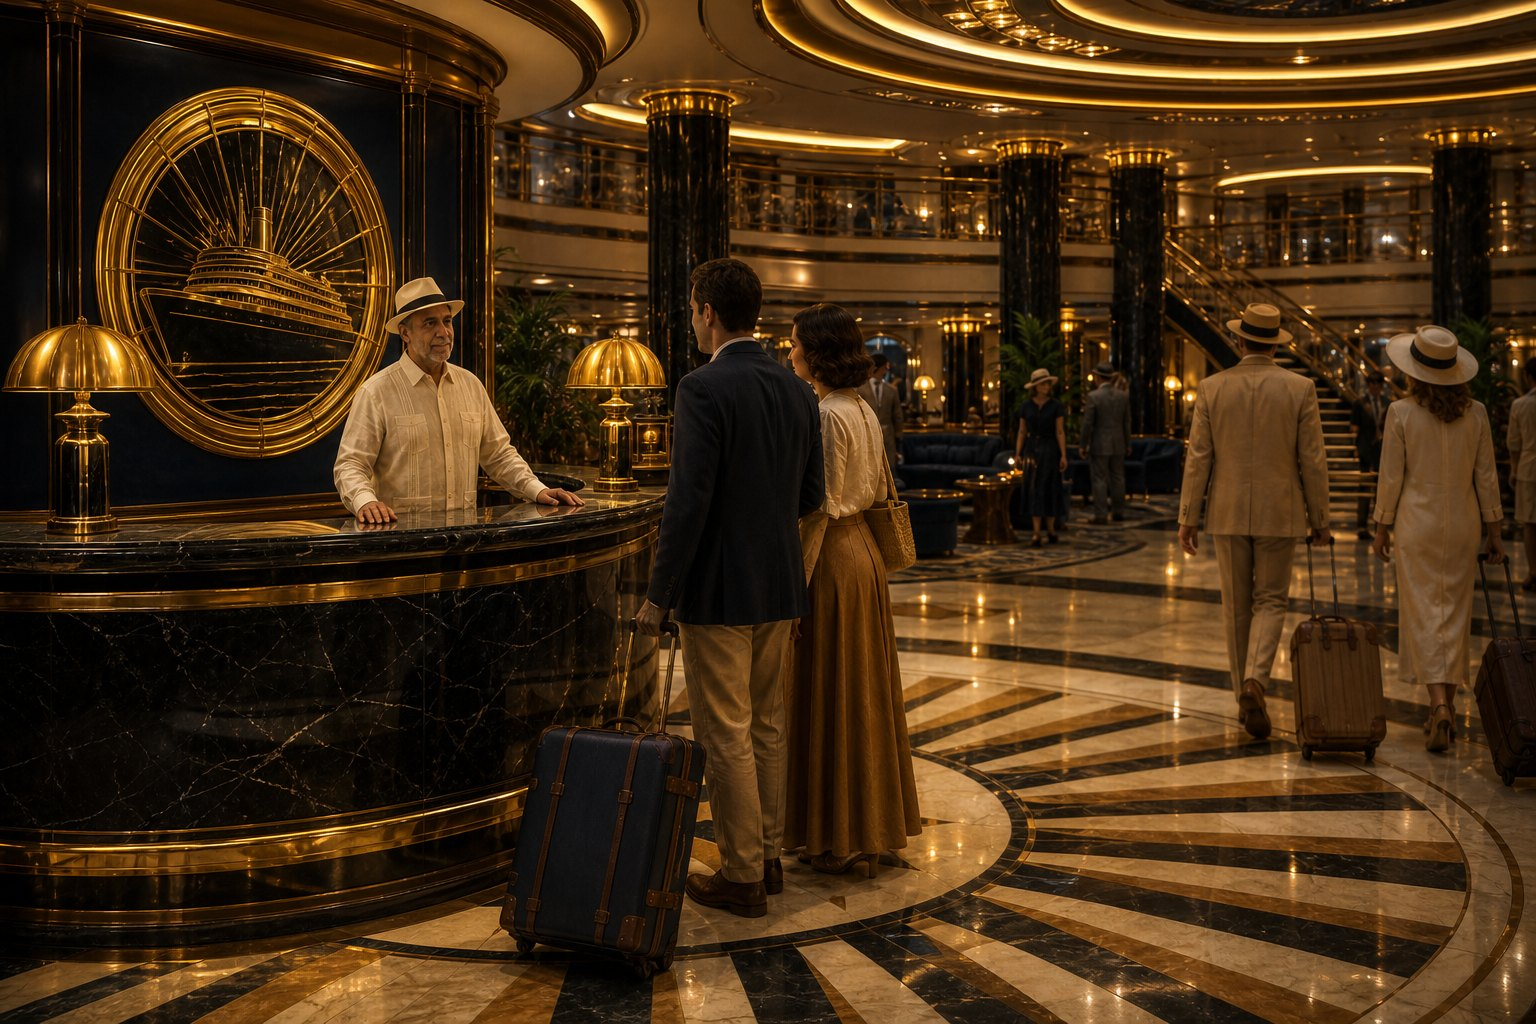
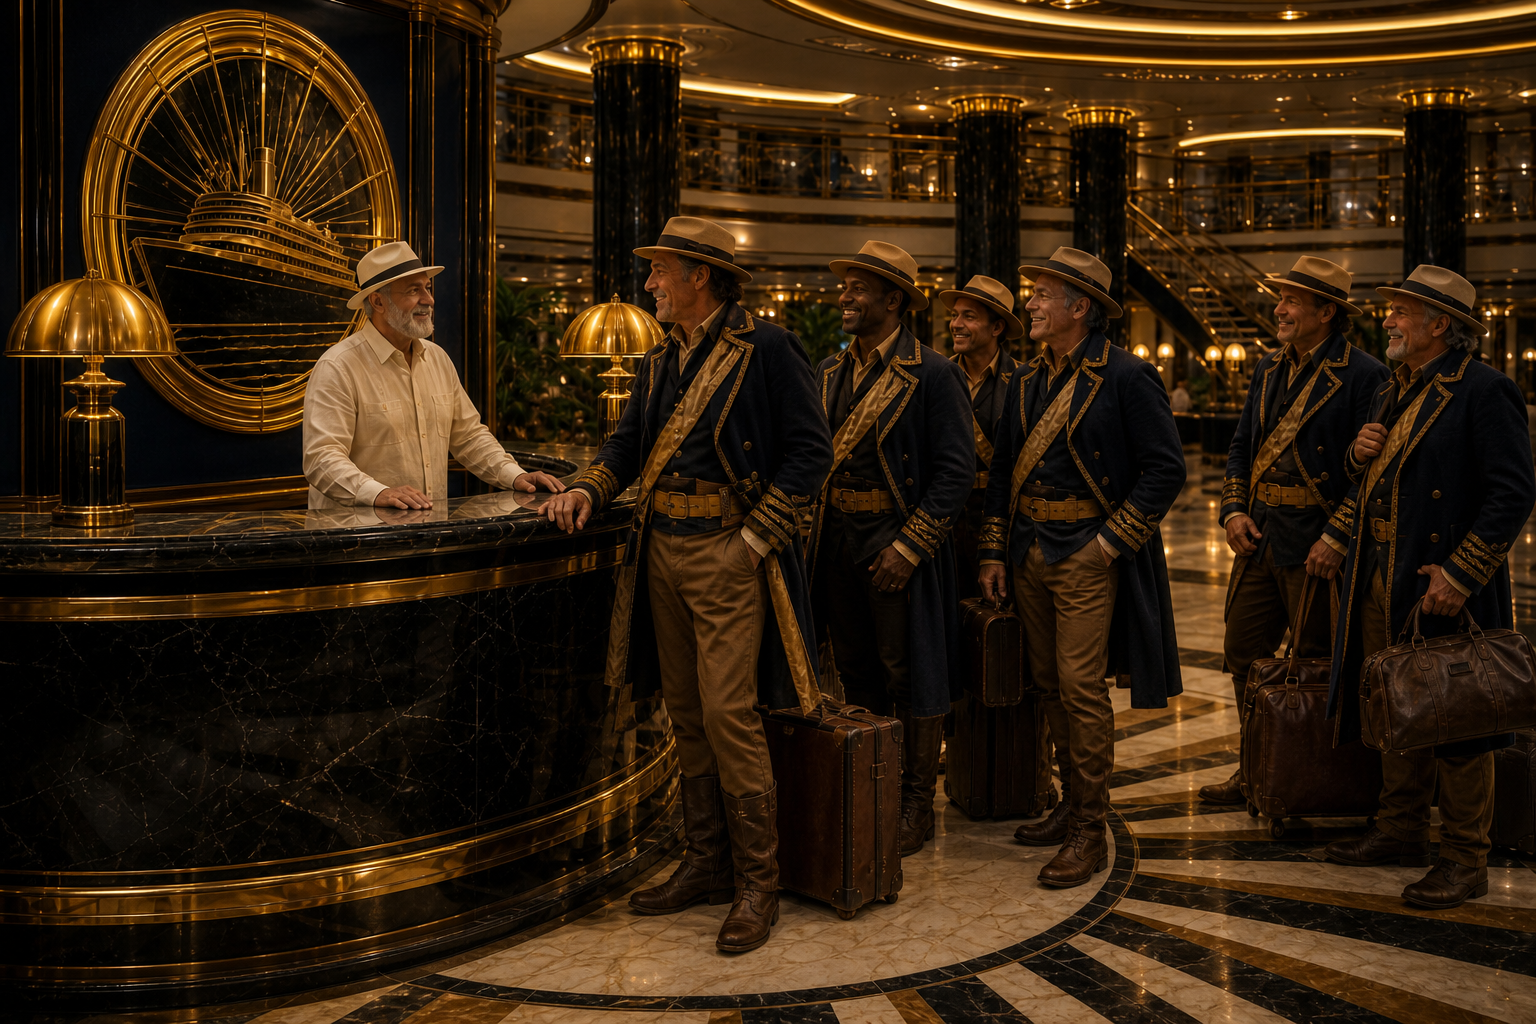
Reception: frontiersmen check-in art + Welcome Aboard playlist
- Replace reception hero image with frontiersmen friends at check-in
- Add pl-reception jukebox playlist starting with Welcome Aboard
- Pin playlist in catalog; link from reception lobby to jukebox autoplay
- Tests for playlist registration and reception lobby copy

diff --git a/apps/ss-vibelandia-questfest/src/lib/playlistNest.ts b/apps/ss-vibelandia-questfest/src/lib/playlistNest.ts
@@ -3,6 +3,7 @@ import {
   isConciertoPreludePlaylist,
   isMasterPlaylist,
   isMyLikesPlaylist,
+  isReceptionPlaylist,
   MASTER_PLAYLIST_ID,
 } from '@/lib/catalogSeed';
 
@@ -22,6 +23,7 @@ export function topLevelUserPlaylists(playlists: PlaylistDef[]): PlaylistDef[] {
       !isMasterPlaylist(p.id) &&
       !isMyLikesPlaylist(p.id) &&
       !isConciertoPreludePlaylist(p.id) &&
+      !isReceptionPlaylist(p.id) &&
       !nested.has(p.id),
   );
 }
@@ -74,7 +76,9 @@ export function canNestPlaylist(
     isMyLikesPlaylist(parentId) ||
     isMyLikesPlaylist(childId) ||
     isConciertoPreludePlaylist(parentId) ||
-    isConciertoPreludePlaylist(childId)
+    isConciertoPreludePlaylist(childId) ||
+    isReceptionPlaylist(parentId) ||
+    isReceptionPlaylist(childId)
   ) {
     return false;
   }
@@ -121,7 +125,7 @@ export function nestablePlaylistsForParent(
 ): PlaylistDef[] {
   return playlists.filter((p) => {
     if (p.id === parentId) return false;
-    if (isMasterPlaylist(p.id) || isMyLikesPlaylist(p.id) || isConciertoPreludePlaylist(p.id)) {
+    if (isMasterPlaylist(p.id) || isMyLikesPlaylist(p.id) || isConciertoPreludePlaylist(p.id) || isReceptionPlaylist(p.id)) {
       return false;
     }
     return canNestPlaylist(parentId, p.id, playlists);
@@ -181,5 +185,5 @@ export function resolvePlaylistTrackIds(
 }
 
 export function isProtectedPlaylist(id: string): boolean {
-  return id === MASTER_PLAYLIST_ID || isMyLikesPlaylist(id) || isConciertoPreludePlaylist(id);
+  return id === MASTER_PLAYLIST_ID || isMyLikesPlaylist(id) || isConciertoPreludePlaylist(id) || isReceptionPlaylist(id);
 }

diff --git a/interfaces/vibelandia-questfest.html b/interfaces/vibelandia-questfest.html
@@ -749,9 +749,12 @@
         <p class="reception-lobby__eyebrow">Phase 2 · SS VIBELANDIA GOLDILOCKS SONIC SHIP</p>
         <h2 id="reception-h">Reception &amp; check-in lobby</h2>
         <figure class="reception-lobby__art">
-          <img src="/interfaces/assets/experience/reception-checkin-lobby.jpg" alt="Art deco gold and navy reception and check-in lobby aboard SS Vibelandia" width="960" height="540" loading="eager" decoding="async" />
-          <figcaption>Reception and check-in. Art deco Goldilocks lobby. Valet Pru keeps the desk.</figcaption>
+          <img src="/interfaces/assets/experience/reception-checkin-lobby.jpg" alt="Several frontiersmen friends checking in together at the gold and navy reception lobby aboard SS Vibelandia" width="960" height="540" loading="eager" decoding="async" />
+          <figcaption>Frontiersmen friends at check-in. Art deco Goldilocks lobby. Valet Pru keeps the desk.</figcaption>
         </figure>
+        <p class="reception-lobby__soundtrack">
+          <a class="btn btn-ghost" href="/interfaces/questfest-bridge/#/listen?playlist=pl-reception&autoplay=1">Play Welcome Aboard · reception soundtrack</a>
+        </p>
         <p class="reception-lobby__lede">Welcome aboard. This lobby is your full primer: the ship, the science shelf, the grand narrative, and your place as NPC, Player, or Reality Bridge/Router. Valet Pru keeps the gangway. Choose how you want to sail, join the router network if you host alternate realities, then tour the offerings.</p>
       </header>
       <div class="reception-primer" aria-labelledby="reception-primer-h">

diff --git a/apps/ss-vibelandia-questfest/src/lib/playlistMenuOrder.ts b/apps/ss-vibelandia-questfest/src/lib/playlistMenuOrder.ts
@@ -1,15 +1,17 @@
 import type { PlaylistDef } from '@/lib/catalogTypes';
 import {
+  isConciertoPreludePlaylist,
   isMasterPlaylist,
   isMyLikesPlaylist,
-  isConciertoPreludePlaylist,
+  isReceptionPlaylist,
   MASTER_PLAYLIST_ID,
   MY_LIKES_PLAYLIST_ID,
 } from '@/lib/catalogSeed';
 import { CONCIERTO_PRELUDE_PLAYLIST_ID } from '@/lib/conciertoPreludePlaylist';
+import { RECEPTION_PLAYLIST_ID } from '@/lib/receptionPlaylist';
 
 export function isMenuPinnedPlaylist(id: string): boolean {
-  return isMasterPlaylist(id) || isMyLikesPlaylist(id) || isConciertoPreludePlaylist(id);
+  return isMasterPlaylist(id) || isMyLikesPlaylist(id) || isConciertoPreludePlaylist(id) || isReceptionPlaylist(id);
 }
 
 export function manageableMenuPlaylists(playlists: PlaylistDef[]): PlaylistDef[] {
@@ -45,9 +47,11 @@ export function applyPlaylistMenuOrder(
   const master = playlists.find((p) => p.id === MASTER_PLAYLIST_ID);
   const likes = playlists.find((p) => p.id === MY_LIKES_PLAYLIST_ID);
   const prelude = playlists.find((p) => p.id === CONCIERTO_PRELUDE_PLAYLIST_ID);
+  const reception = playlists.find((p) => p.id === RECEPTION_PLAYLIST_ID);
   if (master) pinned.push(master);
   if (likes) pinned.push(likes);
   if (prelude) pinned.push(prelude);
+  if (reception) pinned.push(reception);
 
   const manageable = manageableMenuPlaylists(playlists);
   const byId = new Map(manageable.map((p) => [p.id, p]));

diff --git a/apps/ss-vibelandia-questfest/src/stores/catalogStore.ts b/apps/ss-vibelandia-questfest/src/stores/catalogStore.ts
@@ -9,6 +9,7 @@ import {
   isMasterPlaylist,
   isMyLikesPlaylist,
   isConciertoPreludePlaylist,
+  isReceptionPlaylist,
   isUserUploadTrack,
 } from '@/lib/catalogSeed';
 import {
@@ -675,7 +676,7 @@ export const useCatalogStore = create<CatalogState>((set, get) => ({
   },
 
   deletePlaylist: (id) => {
-    if (id === MASTER_PLAYLIST_ID || isMyLikesPlaylist(id) || isConciertoPreludePlaylist(id)) return;
+    if (id === MASTER_PLAYLIST_ID || isMyLikesPlaylist(id) || isConciertoPreludePlaylist(id) || isReceptionPlaylist(id)) return;
     const { playlists, activePlaylistId, userPlaylistMenuOrder } = get();
     if (playlists.length <= 1) return;
     pendingPlaylistDeletes.add(id);
@@ -690,7 +691,7 @@ export const useCatalogStore = create<CatalogState>((set, get) => ({
   },
 
   duplicatePlaylist: (id) => {
-    if (id === MASTER_PLAYLIST_ID || isMyLikesPlaylist(id) || isConciertoPreludePlaylist(id)) {
+    if (id === MASTER_PLAYLIST_ID || isMyLikesPlaylist(id) || isConciertoPreludePlaylist(id) || isReceptionPlaylist(id)) {
       return '';
     }
     const s = get();

diff --git a/apps/ss-vibelandia-questfest/src/lib/playlistDrafts.ts b/apps/ss-vibelandia-questfest/src/lib/playlistDrafts.ts
@@ -3,6 +3,7 @@ import {
   isConciertoPreludePlaylist,
   isMasterPlaylist,
   isMyLikesPlaylist,
+  isReceptionPlaylist,
   MASTER_PLAYLIST_ID,
 } from '@/lib/catalogSeed';
 import { normalizeChildPlaylistIds } from '@/lib/playlistNest';
@@ -11,7 +12,7 @@ const BLANK_DRAFT_NAME = 'new playlist';
 
 /** Untouched "New playlist" shell — safe to drop on hydrate or when user backs out of editor. */
 export function isBlankDraftPlaylist(p: PlaylistDef): boolean {
-  if (isMasterPlaylist(p.id) || isMyLikesPlaylist(p.id) || isConciertoPreludePlaylist(p.id)) {
+  if (isMasterPlaylist(p.id) || isMyLikesPlaylist(p.id) || isConciertoPreludePlaylist(p.id) || isReceptionPlaylist(p.id)) {
     return false;
   }
   if (p.name.trim().toLowerCase() !== BLANK_DRAFT_NAME) return false;

diff --git a/apps/ss-vibelandia-questfest/src/lib/masterCatalogFilter.ts b/apps/ss-vibelandia-questfest/src/lib/masterCatalogFilter.ts
@@ -1,5 +1,5 @@
 import type { PlaylistDef, TrackDef } from '@/lib/catalogTypes';
-import { isConciertoPreludePlaylist, isMasterPlaylist, isMyLikesPlaylist } from '@/lib/catalogSeed';
+import { isConciertoPreludePlaylist, isMasterPlaylist, isMyLikesPlaylist, isReceptionPlaylist } from '@/lib/catalogSeed';
 
 const STORAGE_KEY = 'hjghf-master-filter-v1';
 
@@ -95,7 +95,8 @@ export function userPlaylistsForFilter(playlists: PlaylistDef[]): PlaylistDef[] 
       (p) =>
         !isMasterPlaylist(p.id) &&
         !isMyLikesPlaylist(p.id) &&
-        !isConciertoPreludePlaylist(p.id),
+        !isConciertoPreludePlaylist(p.id) &&
+        !isReceptionPlaylist(p.id),
     )
     .sort((a, b) => a.name.localeCompare(b.name, undefined, { sensitivity: 'base' }));
 }

diff --git a/apps/ss-vibelandia-questfest/src/lib/receptionPlaylist.ts b/apps/ss-vibelandia-questfest/src/lib/receptionPlaylist.ts
@@ -1,0 +1,16 @@
+/** Reception check-in soundtrack — jukebox playlist id (mirrors lib/reception-playlist.mjs). */
+export const RECEPTION_PLAYLIST_ID = 'pl-reception';
+
+export const RECEPTION_PLAYLIST_TRACK_IDS = [
+  'trk-srv-4958316a-f7ef-4639-9765-e326d85fd808',
+] as const;
+
+export function isReceptionPlaylist(id: string): boolean {
+  return id === RECEPTION_PLAYLIST_ID;
+}
+
+export function receptionListenHref(autoplay = true): string {
+  const q = new URLSearchParams({ playlist: RECEPTION_PLAYLIST_ID });
+  if (autoplay) q.set('autoplay', '1');
+  return `/interfaces/questfest-bridge/#/listen?${q.toString()}`;
+}

diff --git a/apps/ss-vibelandia-questfest/src/lib/catalogSeed.ts b/apps/ss-vibelandia-questfest/src/lib/catalogSeed.ts
@@ -32,8 +32,12 @@ export function isConciertoPreludePlaylist(id: string): boolean {
   return id === 'pl-concierto-prelude';
 }
 
+export function isReceptionPlaylist(id: string): boolean {
+  return id === 'pl-reception';
+}
+
 export function isCatalogPinnedPlaylist(id: string): boolean {
-  return isMasterPlaylist(id) || isMyLikesPlaylist(id) || isConciertoPreludePlaylist(id);
+  return isMasterPlaylist(id) || isMyLikesPlaylist(id) || isConciertoPreludePlaylist(id) || isReceptionPlaylist(id);
 }
 
 export const MASTER_PLAYLIST_DEFAULT_NAME = SONIC_CATALOG_DISPLAY_NAME;

diff --git a/apps/ss-vibelandia-questfest/src/lib/serverCatalog.ts b/apps/ss-vibelandia-questfest/src/lib/serverCatalog.ts
@@ -2,6 +2,7 @@ import { upload } from '@vercel/blob/client';
 import {
   buildEmptyCatalog,
   isConciertoPreludePlaylist,
+  isReceptionPlaylist,
   isMasterPlaylist,
   isMyLikesPlaylist,
 } from '@/lib/catalogSeed';
@@ -573,7 +574,8 @@ export async function syncUserPlaylistsToServer(
       (p) =>
         !isMasterPlaylist(p.id) &&
         !isMyLikesPlaylist(p.id) &&
-        !isConciertoPreludePlaylist(p.id),
+        !isConciertoPreludePlaylist(p.id) &&
+        !isReceptionPlaylist(p.id),
     )
     .map((p) => ({
       id: p.id,
